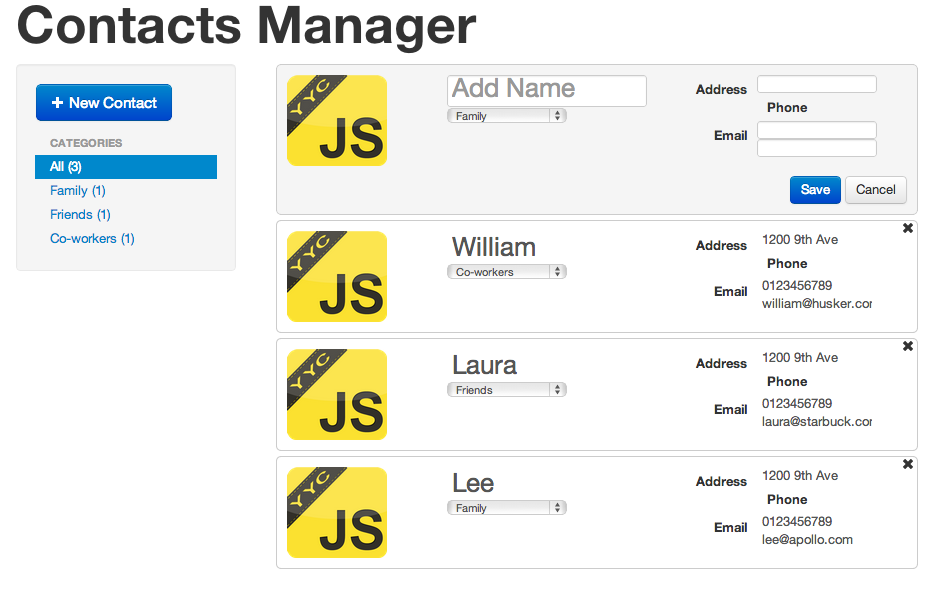
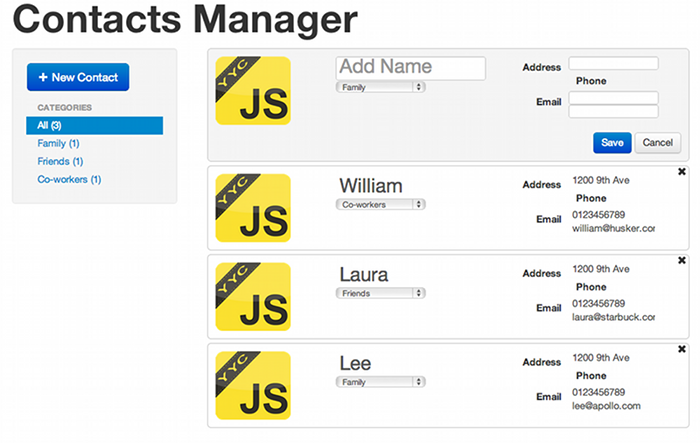
Almost there

diff --git a/index.html b/index.html
@@ -70,7 +70,7 @@
             </aside>
             
             <aside class="page_number">
-              1/9
+              1/10
             </aside>
             <img class="logo" src="theme/yycjs-logo.png">
           </footer>
@@ -84,6 +84,8 @@
             
             <header><h2>Contacts application</h2></header>
             
+            
+            <section><p><img alt="Contacts application" src="images/contacts.png" /></p></section>
             
           </div>
           <div class="presenter_notes">
@@ -99,7 +101,7 @@
             </aside>
             
             <aside class="page_number">
-              2/9
+              2/10
             </aside>
             <img class="logo" src="theme/yycjs-logo.png">
           </footer>
@@ -144,7 +146,7 @@
             </aside>
             
             <aside class="page_number">
-              3/9
+              3/10
             </aside>
             <img class="logo" src="theme/yycjs-logo.png">
           </footer>
@@ -153,11 +155,30 @@
       
       <!-- slide source: readme.md -->
       <div class="slide-wrapper">
-        <div class="slide">
+        <div class="slide has_code">
           <div class="inner">
             
             <header><h2>CoffeeScript</h2></header>
             
+            
+            <section><h3>A rubyish-pythonesque-javascriptish language that compiles to javascript. Basically it makes your code less verbose.</h3>
+<p>Functions can be created rubyishly: </p>
+<div class="highlight"><pre><span class="nx">square</span> <span class="o">=</span> <span class="p">(</span><span class="nx">x</span><span class="p">)</span> <span class="o">-&gt;</span> <span class="nx">x</span> <span class="o">*</span> <span class="nx">x</span>
+</pre></div>
+
+<p>Great features for making functions with arbitrary-length argument list:</p>
+<div class="highlight"><pre><span class="nx">awardMedals</span> <span class="o">=</span> <span class="p">(</span><span class="nx">first</span><span class="p">,</span> <span class="nx">second</span><span class="p">,</span> <span class="nx">others</span><span class="p">...)</span> <span class="o">-&gt;</span>
+  <span class="c1">//do stuff with the arguments!</span>
+</pre></div>
+
+<p>Gotta love awesome pythonic list comprehensions</p>
+<div class="highlight"><pre><span class="nx">eat</span> <span class="nx">food</span> <span class="k">for</span> <span class="nx">food</span> <span class="k">in</span> <span class="p">[</span><span class="s1">&#39;toast&#39;</span><span class="p">,</span> <span class="s1">&#39;cheese&#39;</span><span class="p">,</span> <span class="s1">&#39;wine&#39;</span><span class="p">]</span>
+</pre></div>
+
+<p>Countdown:</p>
+<div class="highlight"><pre><span class="nx">countdown</span> <span class="o">=</span> <span class="p">(</span><span class="nx">num</span> <span class="k">for</span> <span class="nx">num</span> <span class="k">in</span> <span class="p">[</span><span class="mi">10</span><span class="p">..</span><span class="mi">1</span><span class="p">])</span>
+</pre></div>
+</section>
             
           </div>
           <div class="presenter_notes">
@@ -173,7 +194,44 @@
             </aside>
             
             <aside class="page_number">
-              4/9
+              4/10
+            </aside>
+            <img class="logo" src="theme/yycjs-logo.png">
+          </footer>
+        </div>
+      </div>
+      
+      <!-- slide source: readme.md -->
+      <div class="slide-wrapper">
+        <div class="slide has_code">
+          <div class="inner">
+            
+            <header><h2>CoffeeScript</h2></header>
+            
+            
+            <section><p>Cool array slicing features</p>
+<div class="highlight"><pre><span class="nx">numbers</span> <span class="o">=</span> <span class="p">[</span><span class="mi">1</span><span class="p">,</span> <span class="mi">2</span><span class="p">,</span> <span class="mi">3</span><span class="p">,</span> <span class="mi">4</span><span class="p">,</span> <span class="mi">5</span><span class="p">,</span> <span class="mi">6</span><span class="p">,</span> <span class="mi">7</span><span class="p">,</span> <span class="mi">8</span><span class="p">,</span> <span class="mi">9</span><span class="p">]</span>
+<span class="nx">start</span>   <span class="o">=</span> <span class="nx">numbers</span><span class="p">[</span><span class="mi">0</span><span class="p">..</span><span class="mi">2</span><span class="p">]</span>
+</pre></div>
+
+<p>It also has classes, inheritance and super</p>
+<p>And more... (which is my way of saying that I'm running out of time and need some more hands on this)</p></section>
+            
+          </div>
+          <div class="presenter_notes">
+            <header><h1>Presenter Notes</h1></header>
+            <section>
+            
+            </section>
+          </div>
+          <footer>
+            
+            <aside class="source">
+              Source: <a href="readme.md">readme.md</a>
+            </aside>
+            
+            <aside class="page_number">
+              5/10
             </aside>
             <img class="logo" src="theme/yycjs-logo.png">
           </footer>
@@ -204,7 +262,7 @@
             </aside>
             
             <aside class="page_number">
-              5/9
+              6/10
             </aside>
             <img class="logo" src="theme/yycjs-logo.png">
           </footer>
@@ -240,7 +298,7 @@
             </aside>
             
             <aside class="page_number">
-              6/9
+              7/10
             </aside>
             <img class="logo" src="theme/yycjs-logo.png">
           </footer>
@@ -249,20 +307,21 @@
       
       <!-- slide source: readme.md -->
       <div class="slide-wrapper">
-        <div class="slide">
+        <div class="slide has_code">
           <div class="inner">
             
             <header><h2>TypeScript Example</h2></header>
             
             
-            <section><pre><code>&lt;!DOCTYPE html&gt;
-&lt;html&gt;
-  &lt;head&gt;&lt;title&gt; TypeScript Greeter &lt;/title&gt;&lt;/head&gt;
-  &lt;body&gt;
-    &lt;script src='greeter.js'&gt;&lt;/script&gt;
-  &lt;/body&gt;
-&lt;/html&gt;
-</code></pre></section>
+            <section><div class="highlight"><pre><span class="cp">&lt;!DOCTYPE html&gt;</span>
+<span class="nt">&lt;html&gt;</span>
+  <span class="nt">&lt;head&gt;&lt;title&gt;</span> TypeScript Greeter <span class="nt">&lt;/title&gt;&lt;/head&gt;</span>
+  <span class="nt">&lt;body&gt;</span>
+    <span class="nt">&lt;script </span><span class="na">src=</span><span class="s">&#39;greeter.js&#39;</span><span class="nt">&gt;&lt;/script&gt;</span>
+  <span class="nt">&lt;/body&gt;</span>
+<span class="nt">&lt;/html&gt;</span>
+</pre></div>
+</section>
             
           </div>
           <div class="presenter_notes">
@@ -278,7 +337,7 @@
             </aside>
             
             <aside class="page_number">
-              7/9
+              8/10
             </aside>
             <img class="logo" src="theme/yycjs-logo.png">
           </footer>
@@ -287,22 +346,23 @@
       
       <!-- slide source: readme.md -->
       <div class="slide-wrapper">
-        <div class="slide">
+        <div class="slide has_code">
           <div class="inner">
             
             <header><h2>TypeScript Example Continued...</h2></header>
             
             
-            <section><pre><code>class Greeter {
-   constructor(public greeting: string) { }
-   greet() {
-       return "&lt;h1&gt;" + this.greeting + "&lt;/h1&gt;";
-   }
-};
-var greeter = new Greeter("Hello, world!");
-var str = greeter.greet();
-document.body.innerHTML = str;
-</code></pre></section>
+            <section><div class="highlight"><pre><span class="kr">class</span> <span class="nx">Greeter</span> <span class="p">{</span>
+   <span class="nx">constructor</span><span class="p">(</span><span class="kr">public</span> <span class="nx">greeting</span><span class="o">:</span> <span class="nx">string</span><span class="p">)</span> <span class="p">{</span> <span class="p">}</span>
+   <span class="nx">greet</span><span class="p">()</span> <span class="p">{</span>
+       <span class="k">return</span> <span class="s2">&quot;&lt;h1&gt;&quot;</span> <span class="o">+</span> <span class="k">this</span><span class="p">.</span><span class="nx">greeting</span> <span class="o">+</span> <span class="s2">&quot;&lt;/h1&gt;&quot;</span><span class="p">;</span>
+   <span class="p">}</span>
+<span class="p">};</span>
+<span class="kd">var</span> <span class="nx">greeter</span> <span class="o">=</span> <span class="k">new</span> <span class="nx">Greeter</span><span class="p">(</span><span class="s2">&quot;Hello, world!&quot;</span><span class="p">);</span>
+<span class="kd">var</span> <span class="nx">str</span> <span class="o">=</span> <span class="nx">greeter</span><span class="p">.</span><span class="nx">greet</span><span class="p">();</span>
+<span class="nb">document</span><span class="p">.</span><span class="nx">body</span><span class="p">.</span><span class="nx">innerHTML</span> <span class="o">=</span> <span class="nx">str</span><span class="p">;</span>
+</pre></div>
+</section>
             
           </div>
           <div class="presenter_notes">
@@ -318,7 +378,7 @@ document.body.innerHTML = str;
             </aside>
             
             <aside class="page_number">
-              8/9
+              9/10
             </aside>
             <img class="logo" src="theme/yycjs-logo.png">
           </footer>
@@ -356,7 +416,7 @@ document.body.innerHTML = str;
             </aside>
             
             <aside class="page_number">
-              9/9
+              10/10
             </aside>
             <img class="logo" src="theme/yycjs-logo.png">
           </footer>
@@ -379,7 +439,7 @@ document.body.innerHTML = str;
           <footer>
             
             <aside class="page_number">
-              /9
+              /10
             </aside>
             <img class="logo" src="theme/yycjs-logo.png">
           </footer>
@@ -416,28 +476,33 @@ document.body.innerHTML = str;
         </tr>
         
         <tr id="toc-row-5" class="sub">
-          <th><a href="#slide5">Microsoft TypeScript</a></th>
+          <th><a href="#slide5">CoffeeScript</a></th>
           <td><a href="#slide5">5</a></td>
         </tr>
         
         <tr id="toc-row-6" class="sub">
-          <th><a href="#slide6">What is TypeScript?</a></th>
+          <th><a href="#slide6">Microsoft TypeScript</a></th>
           <td><a href="#slide6">6</a></td>
         </tr>
         
         <tr id="toc-row-7" class="sub">
-          <th><a href="#slide7">TypeScript Example</a></th>
+          <th><a href="#slide7">What is TypeScript?</a></th>
           <td><a href="#slide7">7</a></td>
         </tr>
         
         <tr id="toc-row-8" class="sub">
-          <th><a href="#slide8">TypeScript Example Continued...</a></th>
+          <th><a href="#slide8">TypeScript Example</a></th>
           <td><a href="#slide8">8</a></td>
         </tr>
         
         <tr id="toc-row-9" class="sub">
-          <th><a href="#slide9">TypeScript: Up and Running</a></th>
+          <th><a href="#slide9">TypeScript Example Continued...</a></th>
           <td><a href="#slide9">9</a></td>
+        </tr>
+        
+        <tr id="toc-row-10" class="sub">
+          <th><a href="#slide10">TypeScript: Up and Running</a></th>
+          <td><a href="#slide10">10</a></td>
         </tr>
         
       

diff --git a/readme.md b/readme.md
@@ -4,7 +4,7 @@
 
 ## Contacts application
 
-
+![Contacts application](images/contacts.png)
 
 ---
 
@@ -30,27 +30,44 @@ To get started:
 ### A rubyish-pythonesque-javascriptish language that compiles to javascript. Basically it makes your code less verbose.
 
 Functions can be created rubyishly: 
-> square = (x) -> x * x
+
+    !javascript
+    square = (x) -> x * x
 
 Great features for making functions with arbitrary-length argument list:
-> awardMedals = (first, second, others...) ->
-    //do stuff with the arguments!
+
+    !javascript
+    awardMedals = (first, second, others...) ->
+      //do stuff with the arguments!
 
 Gotta love awesome pythonic list comprehensions
-> eat food for food in ['toast', 'cheese', 'wine']
 
-> countdown = (num for num in [10..1])
+    !javascript
+    eat food for food in ['toast', 'cheese', 'wine']
+
+Countdown:
+
+    !javascript
+    countdown = (num for num in [10..1])
+
+---
+
+## CoffeeScript
 
 Cool array slicing features
-> numbers = [1, 2, 3, 4, 5, 6, 7, 8, 9]
-  start   = numbers[0..2]
+
+    !javascript
+    numbers = [1, 2, 3, 4, 5, 6, 7, 8, 9]
+    start   = numbers[0..2]
 
 It also has classes, inheritance and super
 
 And more... (which is my way of saying that I'm running out of time and need some more hands on this)
+
 ---
 
 ## Microsoft TypeScript
+
 ![TypeScript Logo](images/typescript_logo.jpg)
 
 ---
@@ -67,6 +84,7 @@ And more... (which is my way of saying that I'm running out of time and need som
 
 ## TypeScript Example
 
+    !html
     <!DOCTYPE html>
     <html>
       <head><title> TypeScript Greeter </title></head>
@@ -79,6 +97,7 @@ And more... (which is my way of saying that I'm running out of time and need som
 
 ## TypeScript Example Continued...
 
+    !javascript
     class Greeter {
        constructor(public greeting: string) { }
        greet() {
@@ -99,6 +118,7 @@ And more... (which is my way of saying that I'm running out of time and need som
 * Include your compiled JS files like usual `<script src="path/to/your_file.js"></script>`
 
 #### If you like Visual Studio
+
 Go to [the TypeScript tutorial](http://www.typescriptlang.org/Tutorial/)
 
 ---
